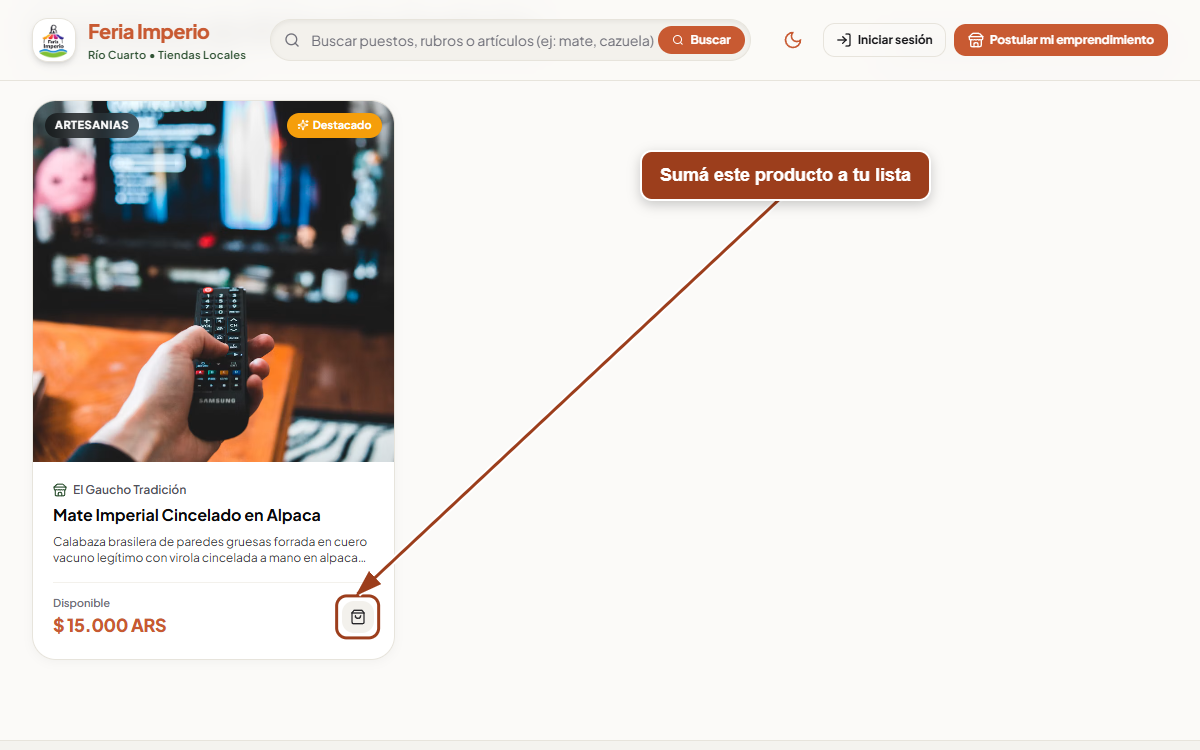
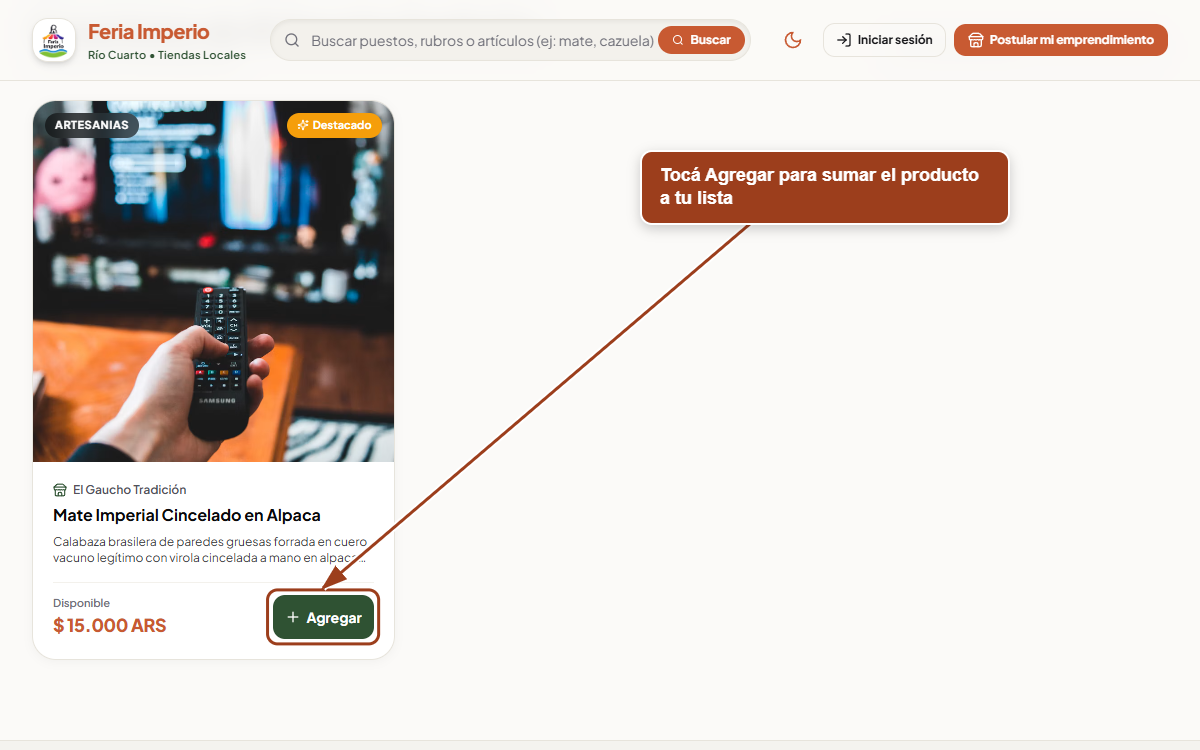
feat: guia actualizada

Changed region(s): [[0.5242, 0.184, 0.8633, 0.3987], [0.2158, 0.4907, 0.4933, 0.8587], [0.4933, 0.3987, 0.555, 0.4907]]

diff --git a/src/data/guides.ts b/src/data/guides.ts
@@ -16,7 +16,7 @@ export const guides = {
       {
         title: 'Explorá los productos y armá tu lista',
         description:
-          'Dentro de cada tienda podés consultar sus productos, precios y disponibilidad. Tocá un producto para ver sus detalles o el botón con la bolsa para sumarlo a tu lista de feria.',
+          'Dentro de cada tienda podés consultar sus productos, precios y disponibilidad. Tocá un producto para ver sus detalles o el botón “Agregar” con el signo + para sumarlo a tu lista de feria.',
         image: 'cliente-producto',
         alt: 'Catálogo de una tienda con el botón de agregar a la lista enmarcado y señalado con una flecha.',
       },
